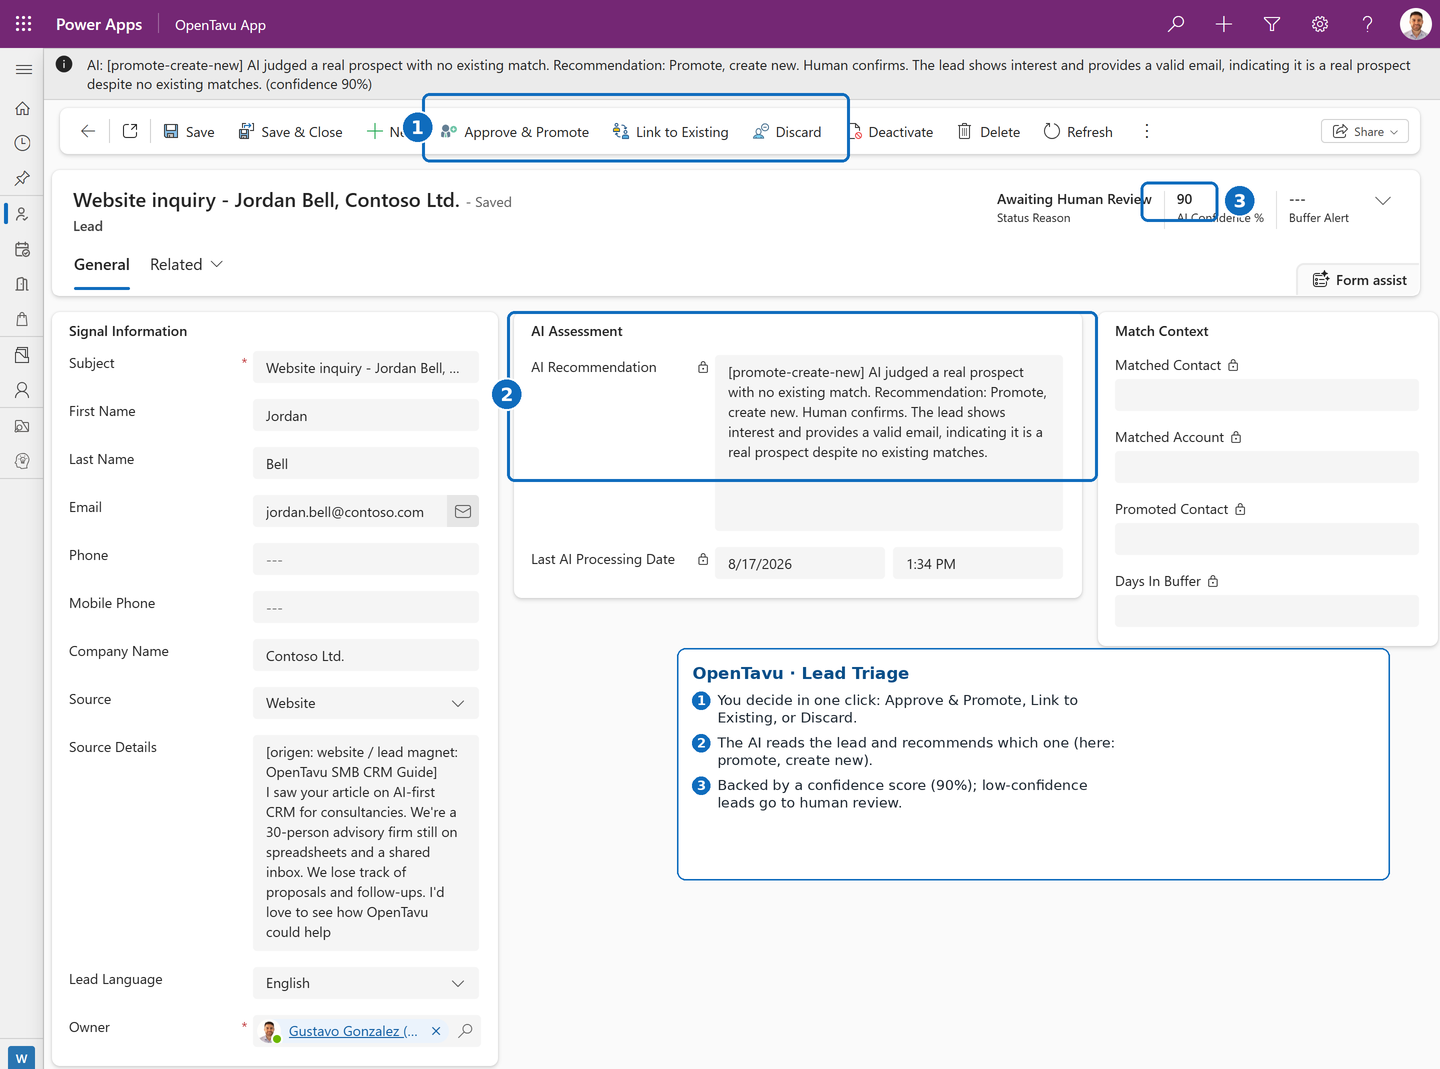
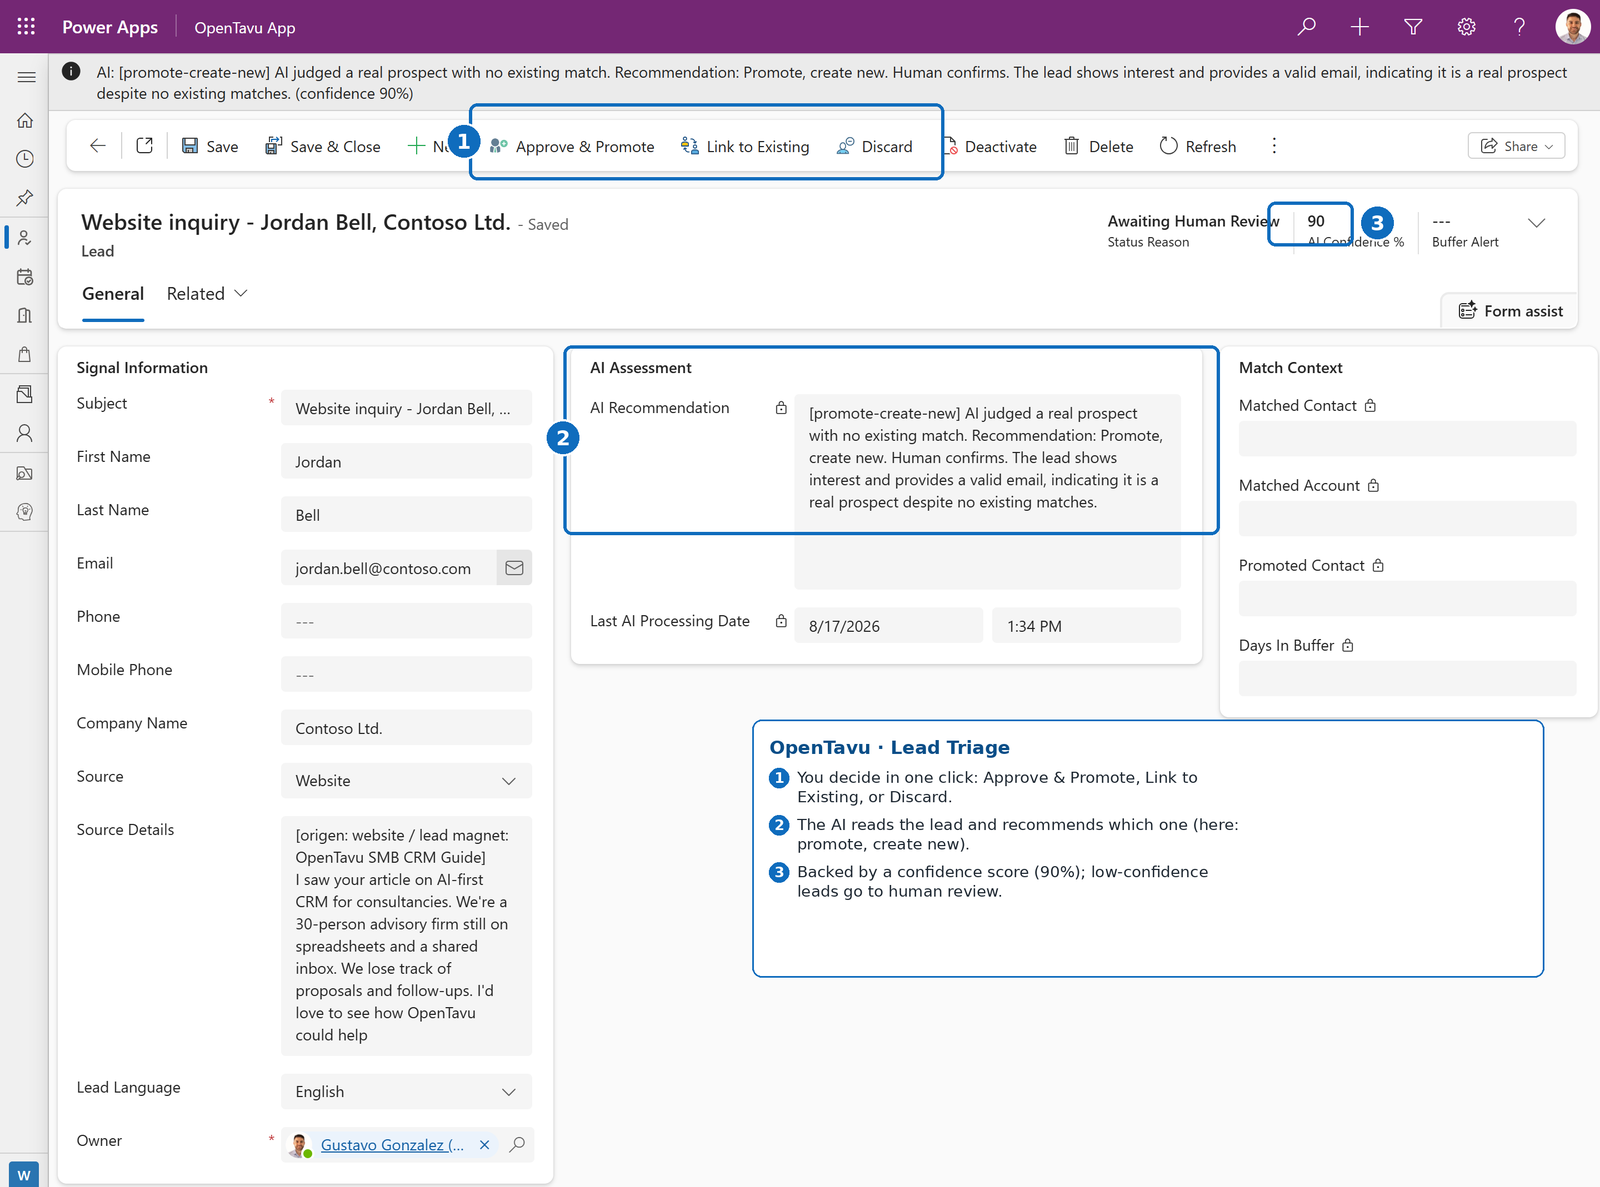
site: unify AI story (band + 4 stages), add heroine screenshots + sales-cycle band

diff --git a/index.html b/index.html
@@ -52,6 +52,8 @@
     .eyebrow { color: var(--accent); font-weight: 700; font-size: 13px; letter-spacing: 1.5px; text-transform: uppercase; }
     h2 { font-size: clamp(26px, 3.5vw, 36px); letter-spacing: -.5px; margin-top: 10px; max-width: 780px; }
     .lead { color: var(--muted); font-size: 18px; margin-top: 14px; max-width: 730px; }
+    h3.stage { font-size: clamp(22px, 3vw, 28px); letter-spacing: -.3px; margin-top: 54px; }
+    h3.stage + .lead { margin-top: 8px; }
 
     .grid { display: grid; gap: 22px; margin-top: 40px; }
     .grid-3 { grid-template-columns: repeat(3, 1fr); }
@@ -157,21 +159,15 @@
     <div class="wrap">
       <div class="eyebrow" data-i18n="feat.eyebrow">What the AI does</div>
       <h2 data-i18n="feat.h2">AI across your client lifecycle, from first lead to ongoing service.</h2>
-      <p class="lead" data-i18n="feat.lead">The intelligence sits where the work happens. Each step reads context, proposes and drafts; you stay the reviewer.</p>
-      <div class="grid grid-2">
-        <div class="card"><div class="ic">1</div><h3 data-i18n="feat.c1t">Lead triage</h3><p data-i18n="feat.c1p">New inbound leads are matched against your CRM and triaged (promote, link or discard) before they clutter it. You approve the ones that create new records.</p></div>
-        <div class="card"><div class="ic">2</div><h3 data-i18n="feat.c2t">Meeting capture</h3><p data-i18n="feat.c2p">Pull a client meeting transcript from Teams and AI extracts the discovery, flags potential clients and their company, and turns it into an opportunity with contact and account in one click. It even drafts your follow-up email.</p></div>
-        <div class="card"><div class="ic">3</div><h3 data-i18n="feat.c3t">Proposal email</h3><p data-i18n="feat.c3p">When you send a proposal, OpenTavu writes the client email grounded in that proposal and attaches a branded PDF, ready for you to review and send.</p></div>
-        <div class="card"><div class="ic">4</div><h3 data-i18n="feat.c4t">Case categorization</h3><p data-i18n="feat.c4p">Once they are clients, every incoming case is read, categorized and routed with a confidence score. Low-confidence cases go to human review, not silently misfiled.</p></div>
-      </div>
-    </div>
-  </section>
+      <p class="lead" data-i18n="feat.lead">Follow one prospect, Contoso, screen by screen: a lead comes in, a meeting is captured, a proposal goes out, and a support case is handled. Here is the whole cycle, then each step inside the app.</p>
 
-  <section id="demo" class="soft">
-    <div class="wrap">
-      <div class="eyebrow" data-i18n="demo.eyebrow">See it in action</div>
-      <h2 data-i18n="demo.h2">Watch a lead go from a web form to your pipeline.</h2>
-      <p class="lead" data-i18n="demo.lead">A prospect asks for the guide. OpenTavu captures the lead, emails the guide, and the AI triages it before you touch anything. You only step in to approve.</p>
+      <div class="shot" style="margin-top:36px">
+        <img src="assets/sales-cycle-band.png" alt="The full OpenTavu sales cycle, from lead to won deal to support" />
+        <div class="cap" data-i18n="feat.bandcap">The full sales cycle: one prospect from a raw lead to a won deal and into post-sale support, with every record in your own Microsoft tenant.</div>
+      </div>
+
+      <h3 class="stage" data-i18n="feat.s1h">1 · Lead triage</h3>
+      <p class="lead" data-i18n="feat.s1p">A prospect asks for the guide from a web form. Power Automate captures the lead and emails the guide, and the AI triages it before you touch anything: it matches the lead against your CRM and recommends promote, link or discard, with a confidence score. You approve the ones that create new records.</p>
       <div class="pipe">
         <div class="pstep"><div class="pn">1</div><div class="pic">📝</div><h4 data-i18n="demo.s1t">Web form</h4><p data-i18n="demo.s1p">Name, email, company, message, language.</p></div>
         <div class="parrow">→</div>
@@ -183,10 +179,19 @@
         <div class="parrow">→</div>
         <div class="pstep"><div class="pn">5</div><div class="pic">✅</div><h4 data-i18n="demo.s5t">You decide</h4><p data-i18n="demo.s5p">One click. New records only after you confirm.</p></div>
       </div>
-      <div class="shot">
-        <img src="assets/lead-triage.png" alt="Lead Triage in the OpenTavu app" />
-        <div class="cap" data-i18n="demo.cap">Lead Triage in the OpenTavu app: the AI recommendation, its confidence score, and your one-click decision.</div>
-      </div>
+      <div class="shot"><img src="assets/lead-triage.png" alt="Lead Triage in the OpenTavu app" /><div class="cap" data-i18n="demo.cap">Lead Triage in the OpenTavu app: the AI recommendation, its confidence score, and your one-click decision.</div></div>
+
+      <h3 class="stage" data-i18n="feat.s2h">2 · Meeting capture</h3>
+      <p class="lead" data-i18n="feat.s2p">After the discovery call, pull the Teams transcript. The AI writes the summary and extracts the discovery, flags the prospect and their company, and turns it into an opportunity in one click. It even drafts the follow-up email.</p>
+      <div class="shot"><img src="assets/meeting-capture.png" alt="Meeting Capture in the OpenTavu app" /><div class="cap" data-i18n="feat.shot2">Meeting Capture: from a Teams transcript the AI writes the summary, extracts the discovery (needs, budget, timeline, decision-makers, next steps), and flags the prospect. One click turns it into an opportunity, and it even drafts your follow-up email.</div></div>
+
+      <h3 class="stage" data-i18n="feat.s3h">3 · Proposal email</h3>
+      <p class="lead" data-i18n="feat.s3p">When the proposal is ready, OpenTavu writes the client email grounded in it, resolves the recipient, and attaches the branded PDF. You review and send.</p>
+      <div class="shot"><img src="assets/proposal-email.png" alt="Proposal Email in the OpenTavu app" /><div class="cap" data-i18n="feat.shot3">Proposal Email: OpenTavu drafts the client email grounded in the proposal, resolves the recipient, writes the subject and attaches the branded PDF. You just review and send.</div></div>
+
+      <h3 class="stage" data-i18n="feat.s4h">4 · Case categorization</h3>
+      <p class="lead" data-i18n="feat.s4p">Once Contoso is a client, every incoming case is read, categorized into your own business lines, and put on an SLA clock, with low-confidence cases routed to human review.</p>
+      <div class="shot"><img src="assets/case-categorization.png" alt="Case Categorization in the OpenTavu app" /><div class="cap" data-i18n="feat.shot4">Case Categorization: every case gets an AI assessment with a confidence score, is auto-sorted into your own business line → category → subcategory, and gets an SLA tracked on your business calendar.</div></div>
     </div>
   </section>
 
@@ -271,11 +276,23 @@
         "what.c2t": "Client communication", "what.c2p": "Context-aware drafts and proposals from your real client history: a branded PDF and a ready email in one click.",
         "what.c3t": "CRM hygiene", "what.c3p": "Activity capture and lead triage keep your data clean, so the CRM you pay for actually stays trustworthy.",
         "feat.eyebrow": "What the AI does", "feat.h2": "AI across your client lifecycle, from first lead to ongoing service.",
-        "feat.lead": "The intelligence sits where the work happens. Each step reads context, proposes and drafts; you stay the reviewer.",
+        "feat.lead": "Follow one prospect, Contoso, screen by screen: a lead comes in, a meeting is captured, a proposal goes out, and a support case is handled. Here is the whole cycle, then each step inside the app.",
+        "feat.bandcap": "The full sales cycle: one prospect from a raw lead to a won deal and into post-sale support, with every record in your own Microsoft tenant.",
+        "feat.s1h": "1 · Lead triage",
+        "feat.s1p": "A prospect asks for the guide from a web form. Power Automate captures the lead and emails the guide, and the AI triages it before you touch anything: it matches the lead against your CRM and recommends promote, link or discard, with a confidence score. You approve the ones that create new records.",
+        "feat.s2h": "2 · Meeting capture",
+        "feat.s2p": "After the discovery call, pull the Teams transcript. The AI writes the summary and extracts the discovery, flags the prospect and their company, and turns it into an opportunity in one click. It even drafts the follow-up email.",
+        "feat.s3h": "3 · Proposal email",
+        "feat.s3p": "When the proposal is ready, OpenTavu writes the client email grounded in it, resolves the recipient, and attaches the branded PDF. You review and send.",
+        "feat.s4h": "4 · Case categorization",
+        "feat.s4p": "Once Contoso is a client, every incoming case is read, categorized into your own business lines, and put on an SLA clock, with low-confidence cases routed to human review.",
         "feat.c1t": "Lead triage", "feat.c1p": "New inbound leads are matched against your CRM and triaged (promote, link or discard) before they clutter it. You approve the ones that create new records.",
         "feat.c2t": "Meeting capture", "feat.c2p": "Pull a client meeting transcript from Teams and AI extracts the discovery, flags potential clients and their company, and turns it into an opportunity with contact and account in one click. It even drafts your follow-up email.",
         "feat.c3t": "Proposal email", "feat.c3p": "When you send a proposal, OpenTavu writes the client email grounded in that proposal and attaches a branded PDF, ready for you to review and send.",
         "feat.c4t": "Case categorization", "feat.c4p": "Once they are clients, every incoming case is read, categorized and routed with a confidence score. Low-confidence cases go to human review, not silently misfiled.",
+        "feat.shot2": "Meeting Capture: from a Teams transcript the AI writes the summary, extracts the discovery (needs, budget, timeline, decision-makers, next steps), and flags the prospect. One click turns it into an opportunity, and it even drafts your follow-up email.",
+        "feat.shot3": "Proposal Email: OpenTavu drafts the client email grounded in the proposal, resolves the recipient, writes the subject and attaches the branded PDF. You just review and send.",
+        "feat.shot4": "Case Categorization: every case gets an AI assessment with a confidence score, is auto-sorted into your own business line → category → subcategory, and gets an SLA tracked on your business calendar.",
         "demo.eyebrow": "See it in action", "demo.h2": "Watch a lead go from a web form to your pipeline.",
         "demo.lead": "A prospect asks for the guide. OpenTavu captures the lead, emails the guide, and the AI triages it before you touch anything. You only step in to approve.",
         "demo.s1t": "Web form", "demo.s1p": "Name, email, company, message, language.",
@@ -284,6 +301,7 @@
         "demo.s4t": "AI triage", "demo.s4p": "Matches your CRM and recommends: promote, link, or discard.",
         "demo.s5t": "You decide", "demo.s5p": "One click. New records only after you confirm.",
         "demo.cap": "Lead Triage in the OpenTavu app: the AI recommendation, its confidence score, and your one-click decision.",
+        "demo.bandcap": "And it doesn't stop at the lead. The full sales cycle: one prospect from a raw lead to a won deal and into post-sale support, with every record in your own Microsoft tenant.",
         "why.eyebrow": "Why OpenTavu", "why.h2": "Your data, your Microsoft tenant, a fraction of the cost, and someone runs it for you.",
         "why.lead": "It isn't a feature-by-feature clone of the big CRMs. It's a different economic model: the intelligence you want, on infrastructure you may already pay for, without the lock-in.",
         "compare.h1": "Typical SaaS CRM (Professional)",
@@ -322,11 +340,23 @@
         "what.c2t": "Comunicación con clientes", "what.c2p": "Borradores y propuestas con contexto de tu historial real: un PDF con tu marca y un correo listo en un clic.",
         "what.c3t": "Higiene del CRM", "what.c3p": "La captura de actividad y el triage de leads mantienen tus datos limpios, para que el CRM que pagas siga siendo confiable.",
         "feat.eyebrow": "Qué hace la IA", "feat.h2": "IA a lo largo del ciclo de tu cliente, del primer lead al servicio continuo.",
-        "feat.lead": "La inteligencia va donde ocurre el trabajo. Cada paso lee el contexto, propone y redacta; tú te quedas como revisor.",
+        "feat.lead": "Sigue a un prospecto, Contoso, pantalla por pantalla: entra un lead, se captura una reunión, sale una propuesta y se atiende un caso de soporte. Aquí está el ciclo completo, y luego cada paso dentro de la app.",
+        "feat.bandcap": "El ciclo de venta completo: un prospecto desde un lead hasta un negocio ganado y el soporte post-venta, con cada registro en tu propio tenant de Microsoft.",
+        "feat.s1h": "1 · Triage de leads",
+        "feat.s1p": "Un prospecto pide la guía desde un formulario web. Power Automate captura el lead y le envía la guía, y la IA lo triagea antes de que toques nada: lo cruza con tu CRM y recomienda promover, vincular o descartar, con un puntaje de confianza. Tú apruebas los que crean registros nuevos.",
+        "feat.s2h": "2 · Captura de reuniones",
+        "feat.s2p": "Después de la llamada de descubrimiento, trae el transcript de Teams. La IA redacta el resumen y extrae el discovery, marca al prospecto y su empresa, y lo vuelve una oportunidad en un clic. Incluso redacta el correo de seguimiento.",
+        "feat.s3h": "3 · Correo de propuesta",
+        "feat.s3p": "Cuando la propuesta está lista, OpenTavu escribe el correo al cliente basado en ella, resuelve el destinatario y adjunta el PDF con tu marca. Tú revisas y envías.",
+        "feat.s4h": "4 · Categorización de casos",
+        "feat.s4p": "Cuando Contoso ya es cliente, cada caso entrante se lee, se categoriza en tus propias líneas de negocio y se pone en un reloj de SLA, con los casos de baja confianza enviados a revisión humana.",
         "feat.c1t": "Triage de leads", "feat.c1p": "Los leads entrantes se cruzan con tu CRM y se clasifican (promover, vincular o descartar) antes de ensuciarlo. Tú apruebas los que crean registros nuevos.",
         "feat.c2t": "Captura de reuniones", "feat.c2p": "Trae el transcript de una reunión desde Teams y la IA extrae el discovery, marca clientes potenciales y su empresa, y lo convierte en una oportunidad con contacto y cuenta en un clic. Incluso redacta tu correo de seguimiento.",
         "feat.c3t": "Correo de propuesta", "feat.c3p": "Cuando envías una propuesta, OpenTavu escribe el correo al cliente basado en esa propuesta y adjunta un PDF con tu marca, listo para que lo revises y envíes.",
         "feat.c4t": "Categorización de casos", "feat.c4p": "Cuando ya son clientes, cada caso entrante se lee, categoriza y enruta con un puntaje de confianza. Los de baja confianza van a revisión humana, no se archivan mal en silencio.",
+        "feat.shot2": "Captura de reuniones: desde un transcript de Teams, la IA redacta el resumen, extrae el discovery (necesidades, presupuesto, tiempos, decisores, próximos pasos) y marca al prospecto. Un clic lo vuelve una oportunidad, e incluso redacta tu correo de seguimiento.",
+        "feat.shot3": "Correo de propuesta: OpenTavu redacta el correo basado en la propuesta, resuelve el destinatario, escribe el asunto y adjunta el PDF con tu marca. Tú solo revisas y envías.",
+        "feat.shot4": "Categorización de casos: cada caso recibe una evaluación de IA con puntaje de confianza, se clasifica en tu propia línea de negocio → categoría → subcategoría, y recibe un SLA en tu calendario de negocio.",
         "demo.eyebrow": "Míralo funcionando", "demo.h2": "Un lead pasa de un formulario web a tu pipeline.",
         "demo.lead": "Un prospecto pide la guía. OpenTavu captura el lead, le envía la guía, y la IA lo triagea antes de que toques nada. Tú solo entras a aprobar.",
         "demo.s1t": "Formulario web", "demo.s1p": "Nombre, correo, empresa, mensaje, idioma.",
@@ -335,6 +365,7 @@
         "demo.s4t": "Triage con IA", "demo.s4p": "Cruza tu CRM y recomienda: promover, vincular o descartar.",
         "demo.s5t": "Tú decides", "demo.s5p": "Un clic. Registros nuevos solo tras tu confirmación.",
         "demo.cap": "Lead Triage en la app de OpenTavu: la recomendación de la IA, su nivel de confianza y tu decisión en un clic.",
+        "demo.bandcap": "Y no se detiene en el lead. El ciclo de venta completo: un prospecto desde un lead hasta un negocio ganado y el soporte post-venta, con cada registro en tu propio tenant de Microsoft.",
         "why.eyebrow": "Por qué OpenTavu", "why.h2": "Tus datos, tu tenant de Microsoft, una fracción del costo, y alguien lo opera por ti.",
         "why.lead": "No es un clon función-por-función de los grandes CRM. Es un modelo económico distinto: la inteligencia que quieres, sobre infraestructura que quizá ya pagas, sin lock-in.",
         "compare.h1": "CRM SaaS típico (Professional)",
